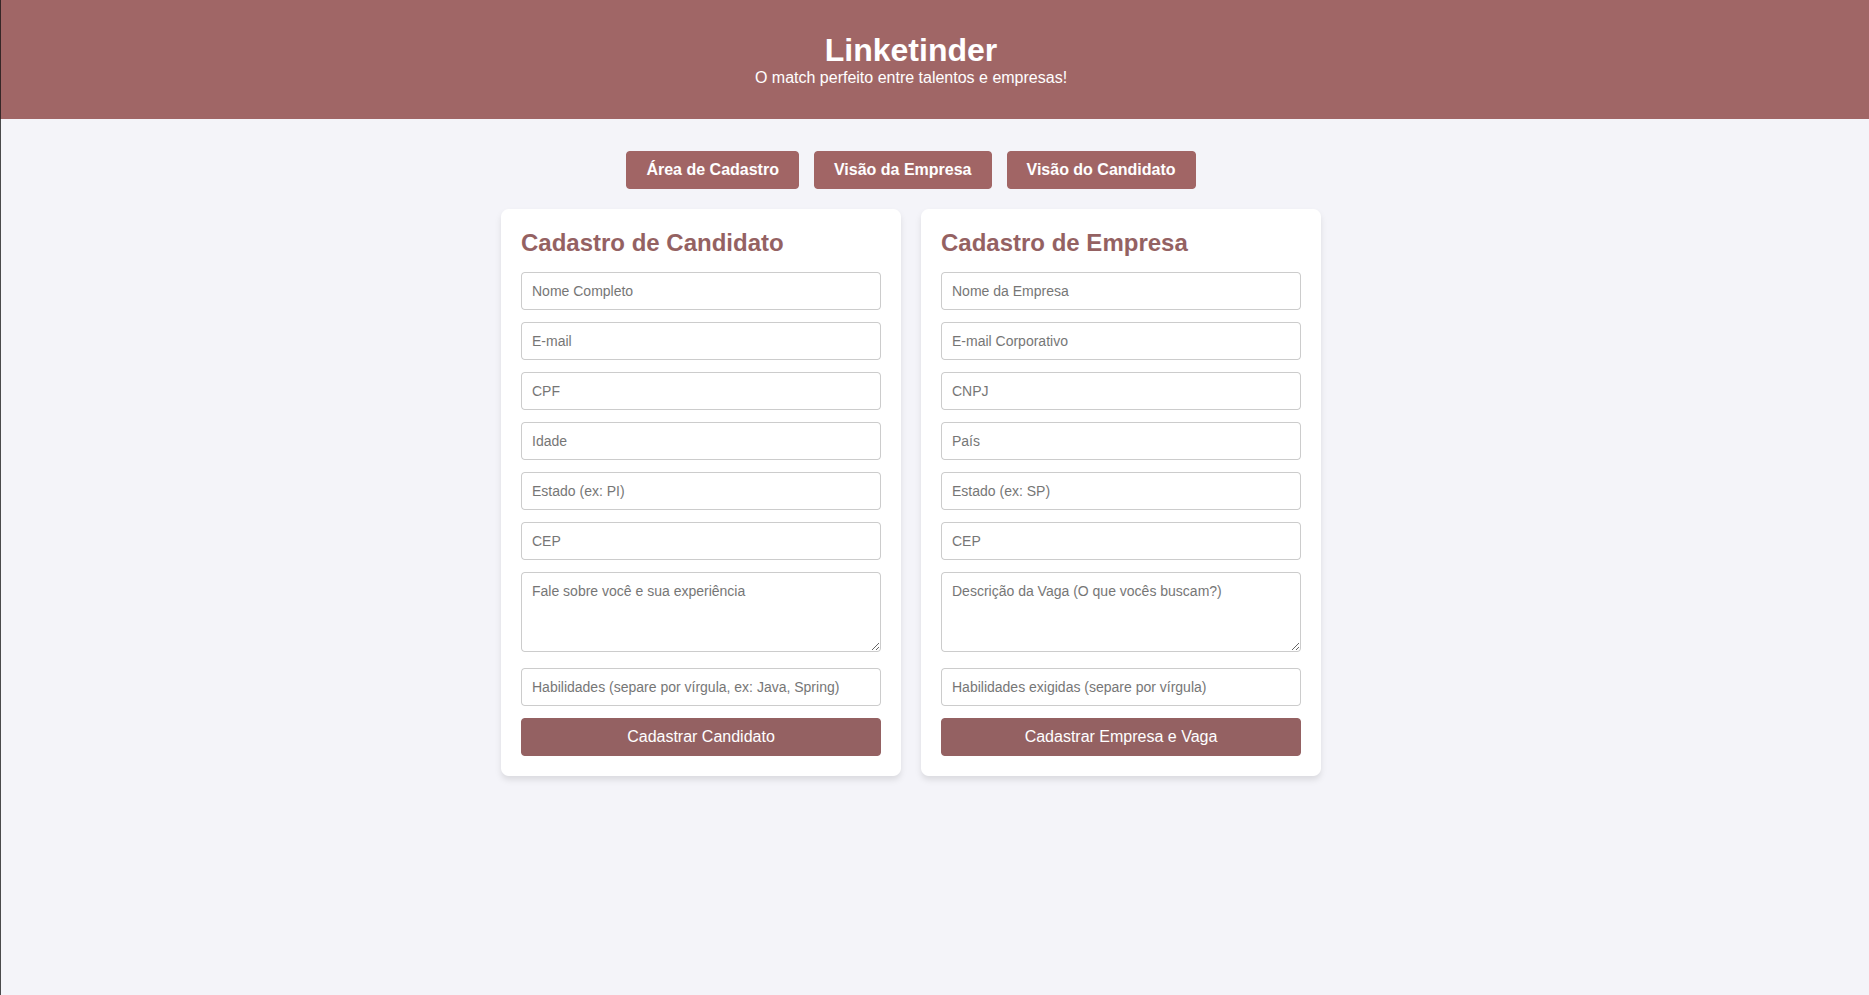
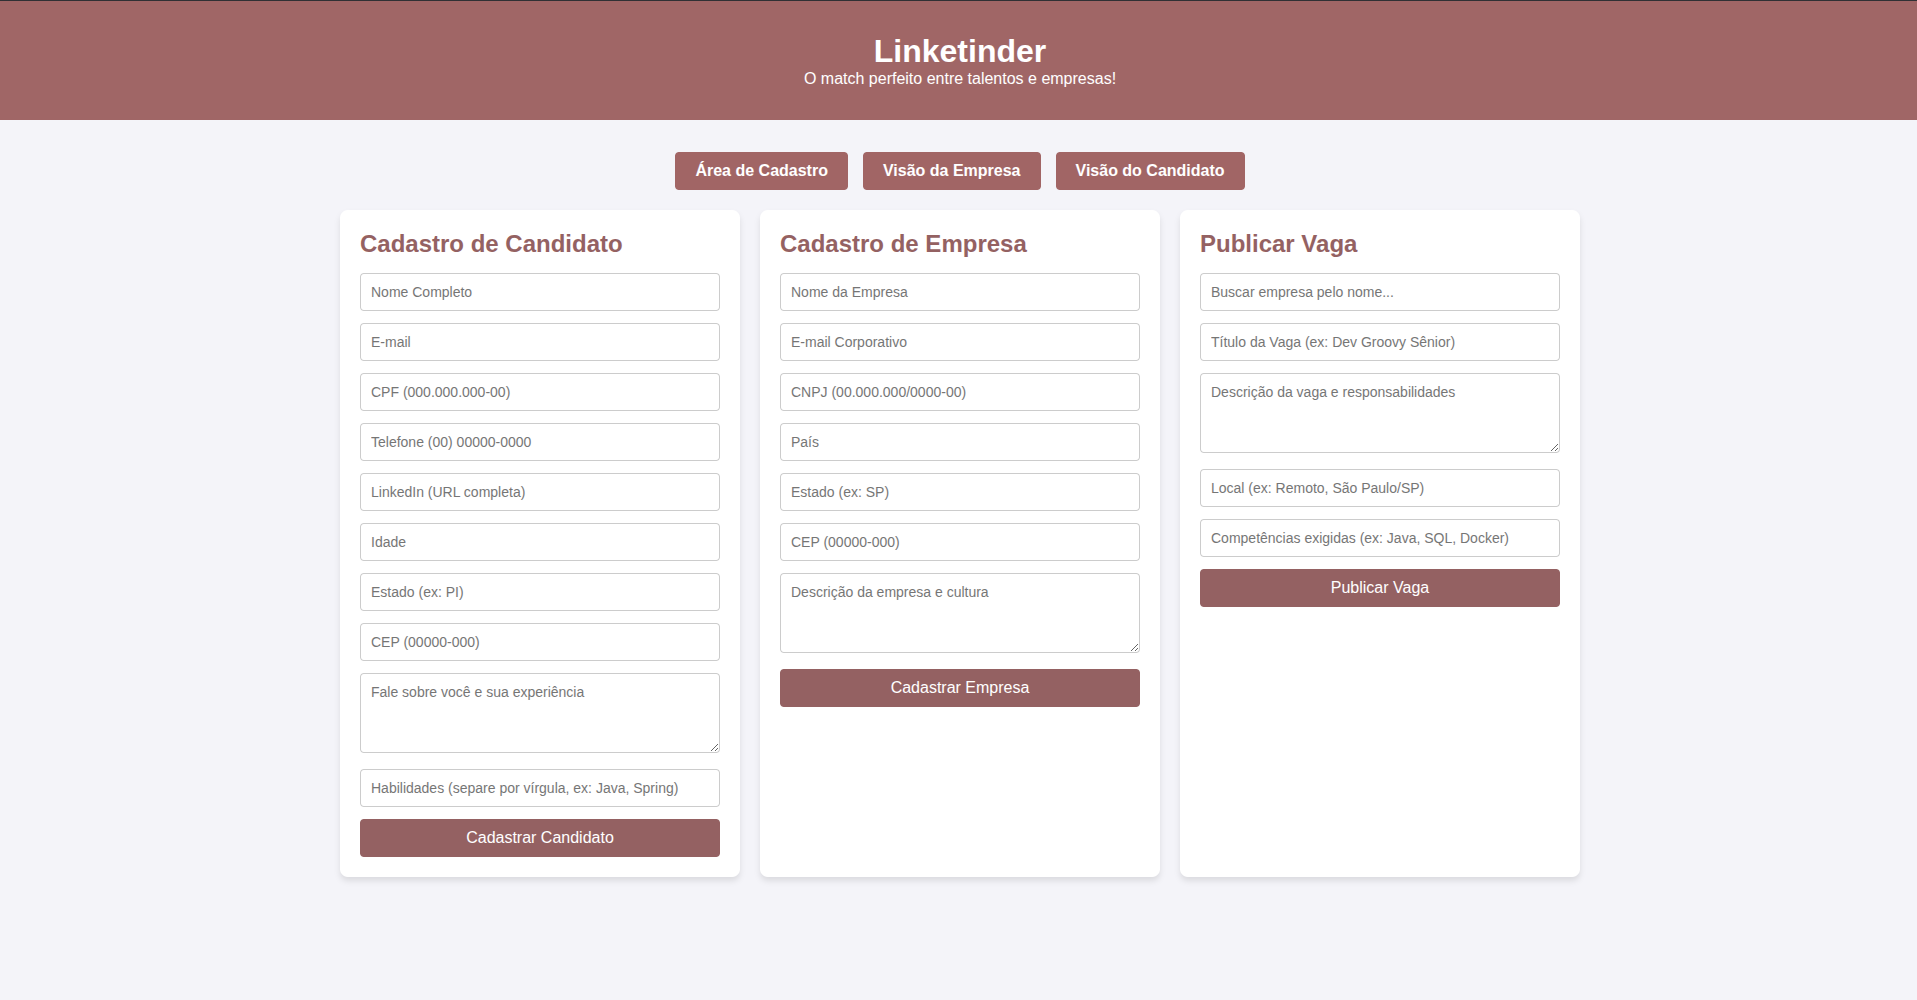
docs: atualização no readme para refletir as alterações visuais e de arquitetura

diff --git a/README.md b/README.md
@@ -5,7 +5,7 @@
 ![Frontend](https://img.shields.io/badge/frontend-Vanilla_TS%2FHTML%2FCSS-0A7EA4)
 ![Backend](https://img.shields.io/badge/backend-Mockado_(LocalStorage)-6B7280)
 
-MVP do LinkeTinder para conectar talentos e empresas, com foco em fundamentos de TypeScript, arquitetura simples e evolução futura para backend real.
+MVP do LinkeTinder para conectar talentos e empresas, com foco em fundamentos de TypeScript, arquitetura em camadas e evolução futura para backend real.
 
 ## 🎬 Demonstração
 
@@ -13,16 +13,15 @@ MVP do LinkeTinder para conectar talentos e empresas, com foco em fundamentos de
   ![Tela de Cadastro](./docs/assets/cadastro.png)
 - Visão da empresa com gráfico de competências (Chart.js)
   ![Visão da Empresa com Gráfico](./docs/assets/perfil-empresa-chart.png)
-
 - Tooltip flutuante com anonimato dos dados sensíveis
-![Tooltip de Anonimato](./docs/assets/tooltip-anonimato.png)
+  ![Tooltip de Anonimato](./docs/assets/tooltip-anonimato.png)
 
 ## 🧠 Contexto do Projeto
 
 O objetivo deste MVP é simular uma plataforma de match entre candidatos e empresas:
 
 - Candidato e empresa se cadastram com dados e habilidades
-- Empresa visualiza candidatos com dados sensíveis anonimizados
+- Vagas são publicadas pela empresa e listadas para os candidatos com dados sensíveis anonimizados
 - Competências dos candidatos são apresentadas em gráfico para tomada de decisão rápida
 
 ## 💻 Tecnologias
@@ -40,8 +39,8 @@ O objetivo deste MVP é simular uma plataforma de match entre candidatos e empre
 
 - Backend simulado (mockado) usando LocalStorage do navegador
   - Operações de Create e Delete persistem dados localmente no browser
-- Camada de serviço isolada em `src/database.ts`
-  - Centraliza acesso aos dados e reduz acoplamento da interface
+- Arquitetura em camadas: models, repositories, services e validators
+  - Cada camada tem responsabilidade única e bem definida
   - Facilita migração futura para API REST + banco de dados real sem reescrever a camada de telas
 
 ## 🧱 Estrutura do Projeto
@@ -55,11 +54,29 @@ O objetivo deste MVP é simular uma plataforma de match entre candidatos e empre
 ├── css/
 │   └── style.css
 ├── src/
-│   ├── cadastro.ts
-│   ├── database.ts
-│   ├── mascaras.ts
+│   ├── formularioCadastro.ts
 │   ├── perfil-candidato.ts
-│   └── perfil-empresa.ts
+│   ├── perfil-empresa.ts
+│   ├── models/
+│   │   ├── Candidato.ts
+│   │   ├── Empresa.ts
+│   │   └── Vaga.ts
+│   ├── repositories/
+│   │   ├── CandidatoRepository.ts
+│   │   ├── EmpresaRepository.ts
+│   │   ├── VagaRepository.ts
+│   │   ├── ICandidatoRepository.ts
+│   │   ├── IEmpresaRepository.ts
+│   │   └── IVagaRepository.ts
+│   ├── services/
+│   │   ├── CandidatoService.ts
+│   │   ├── EmpresaService.ts
+│   │   └── VagaService.ts
+│   └── validators/
+│       ├── CandidatoValidator.ts
+│       ├── EmpresaValidators.ts
+│       ├── VagaValidator.ts
+│       └── mascaras.ts
 └── dist/
 ```
 
@@ -82,7 +99,7 @@ npm install -g typescript
 1. Clone o repositório:
 
 ```bash
-git clone (https://github.com/fernandosantos01/ZG-Hero-Project-K1-T7-Typescript-Linketinder.git)
+git clone https://github.com/fernandosantos01/ZG-Hero-Project-K1-T7-Typescript-Linketinder.git
 ```
 
 2. Acesse a pasta do projeto:
@@ -91,7 +108,7 @@ git clone (https://github.com/fernandosantos01/ZG-Hero-Project-K1-T7-Typescript-
 cd LinkeTinderTypeScript
 ```
 
-3. Compile e execute os arquivos TypeScript para JavaScript:
+3. Compile os arquivos TypeScript para JavaScript:
 
 ```bash
 tsc -w
@@ -120,19 +137,22 @@ Use sempre um servidor local HTTP (ex.: Live Server).
 
 ## ✅ Funcionalidades MVP
 
-- Cadastro de candidatos
-- Cadastro de empresas/vagas
-- Listagem de candidatos para empresas
+- Cadastro de candidatos com validação e máscaras automáticas (CPF, CNPJ, telefone, CEP)
+- Cadastro de empresas
+- Publicação de vagas com **busca de empresa por nome** (autocomplete)
+- Listagem de vagas para candidatos com título, competências e localização
 - Tooltip com anonimização de dados sensíveis (nome e CPF ocultos)
-- Gráfico de competências com Chart.js
+- Gráfico de competências dos candidatos com Chart.js
 - Persistência local via LocalStorage
-- Validações de formulário com Regex para campos críticos
-- Máscaras automáticas para CPF, CNPJ, telefone e CEP
-- Campos adicionais no candidato: telefone e LinkedIn
+- Arquitetura em camadas (models / repositories / services / validators)
+
+## 🔍 Autocomplete de Empresa na Publicação de Vaga
+
+Ao publicar uma vaga, o usuário digita o nome da empresa no campo de busca. O sistema filtra em tempo real as empresas cadastradas e exibe uma lista de sugestões. Ao selecionar uma empresa, o ID é preenchido automaticamente em um campo oculto — sem necessidade de copiar ou informar IDs manualmente.
 
 ## 🔒 Regras de validação e formatação
 
-O fluxo de cadastro agora aplica validações mais rigorosas antes de persistir os dados, incluindo:
+O fluxo de cadastro aplica validações antes de persistir os dados:
 
 - Nome com tamanho mínimo e caracteres válidos
 - E-mail em formato válido
@@ -140,20 +160,9 @@ O fluxo de cadastro agora aplica validações mais rigorosas antes de persistir 
 - Telefone em padrão nacional
 - CEP no formato 00000-000
 - LinkedIn com URL válida de perfil
-- Habilidades separadas por vírgula
+- Habilidades e competências separadas por vírgula
 
-Além disso, as máscaras são aplicadas em tempo real nos inputs para melhorar a experiência de preenchimento.
-
-## 📝 Última evolução
-
-Commit: `01ae58a`  
-Título: `feat: adiciona validacoes regex, mascaras e novos campos`  
-Arquivos impactados:
-
-- `cadastro.html`
-- `src/cadastro.ts`
-- `src/database.ts`
-- `src/mascaras.ts`
+As máscaras são aplicadas em tempo real nos inputs para melhorar a experiência de preenchimento.
 
 ## 🛣 Próximos Passos
 
@@ -161,7 +170,7 @@ Arquivos impactados:
 - Adicionar banco de dados relacional ou NoSQL
 - Criar autenticação/autorização
 - Implementar testes automatizados (unitários e integração)
-- Evoluir UX com feedback visual de sucesso/erro e validações mais robustas
+- Evoluir UX com feedback visual de sucesso/erro
 
 ## 👨💻 Autor
 
